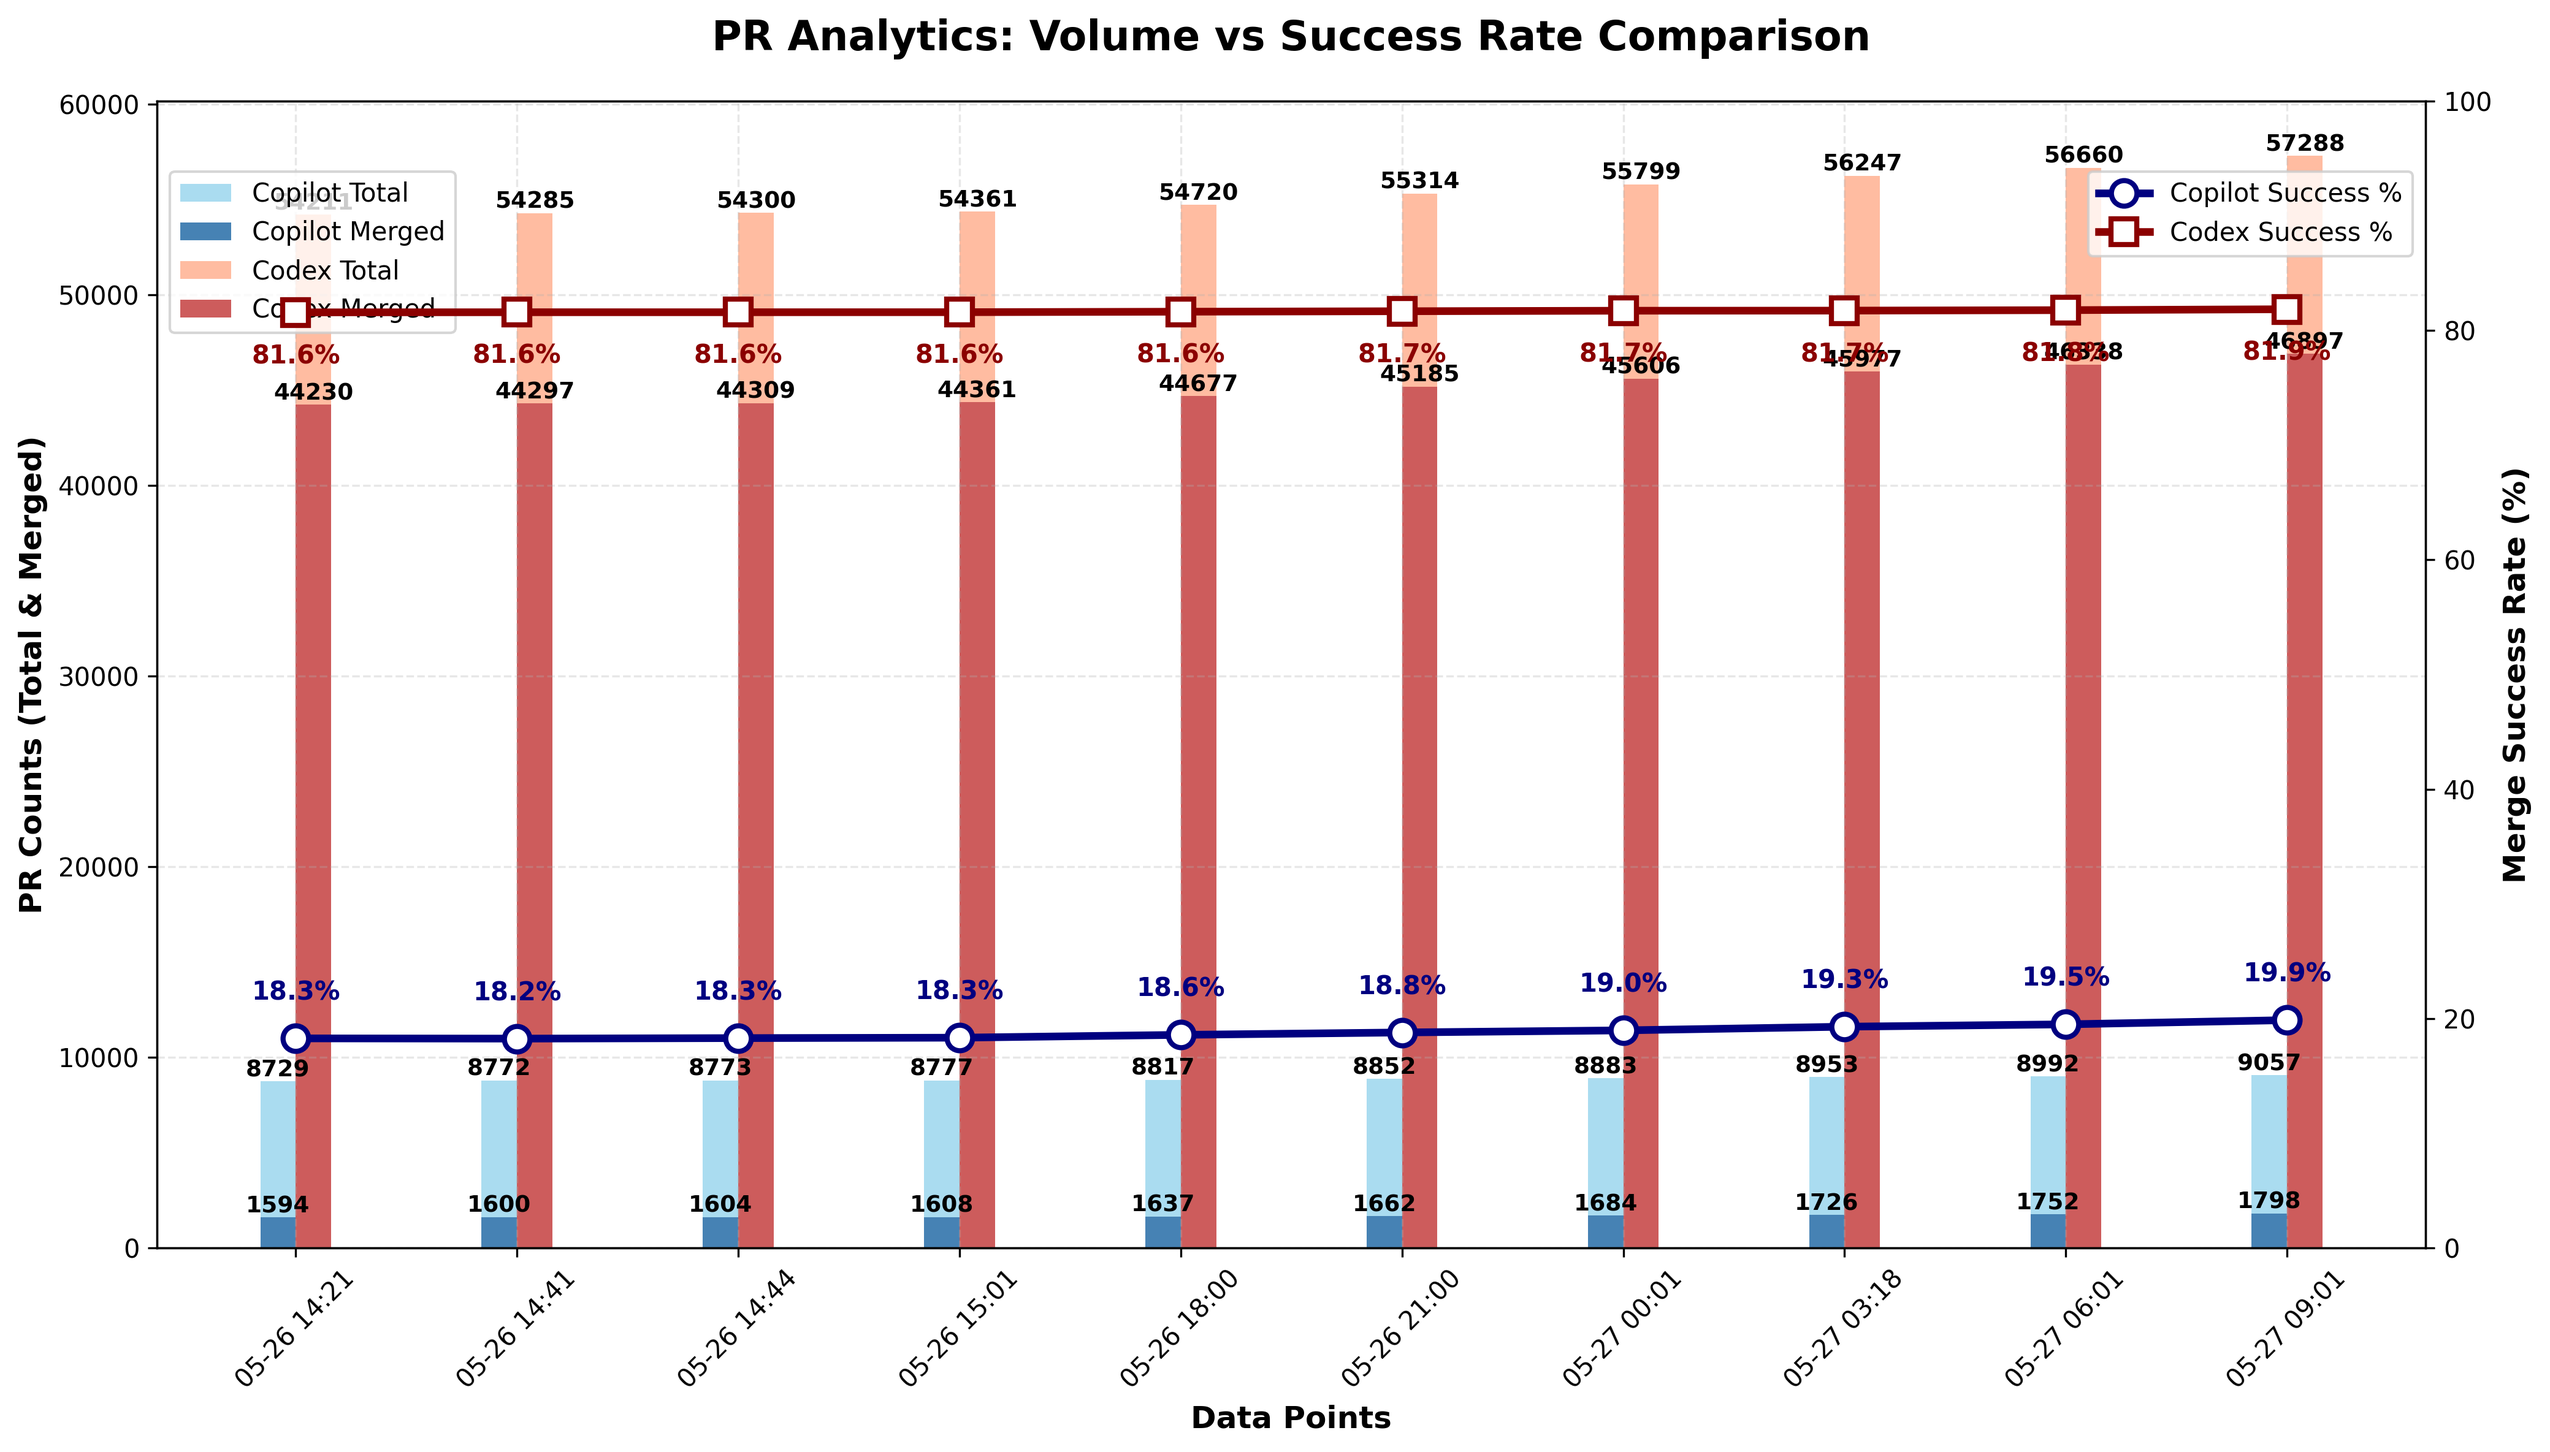
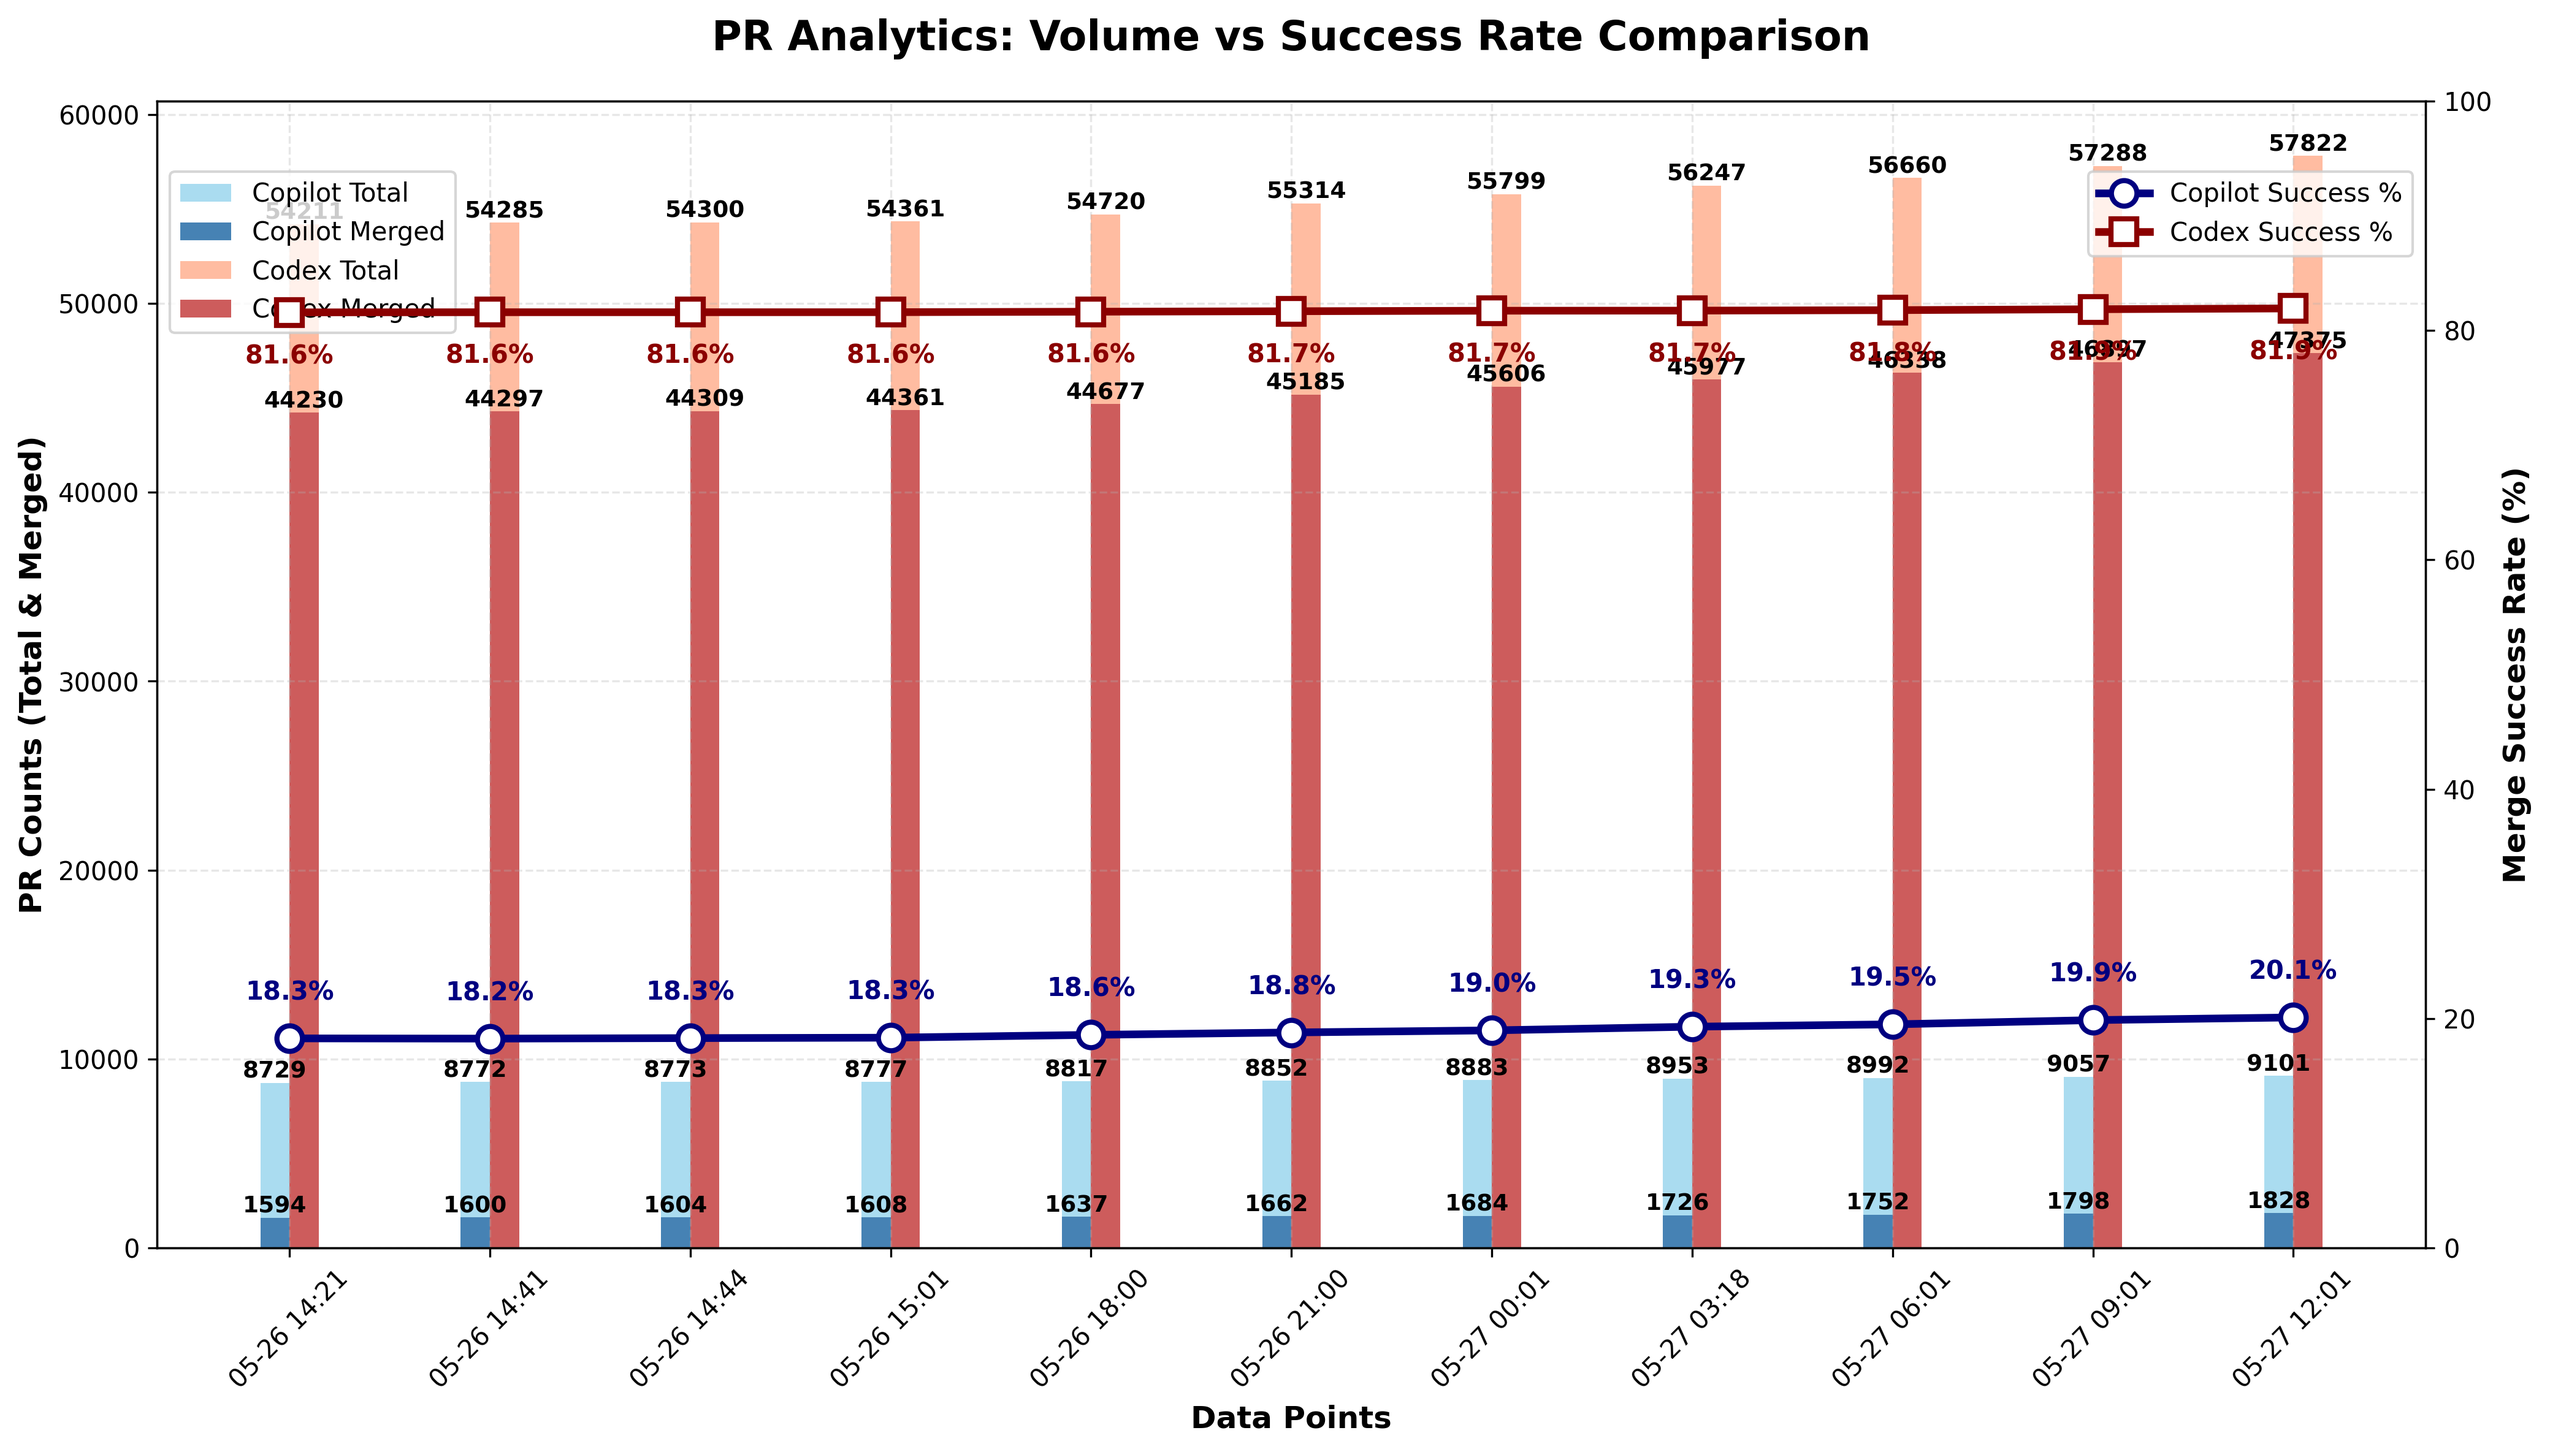
chore: update PR‑approval chart

diff --git a/README.md b/README.md
@@ -17,5 +17,5 @@ Explore the GitHub search queries used:
 
 | Project | Total PRs | Merged PRs | Merge Rate |
 | ------- | --------- | ---------- | ---------- |
-| Copilot | 9,057 | 1,798 | 19.85% |
-| Codex   | 57,288 | 46,897 | 81.86% |
+| Copilot | 9,101 | 1,828 | 20.09% |
+| Codex   | 57,822 | 47,375 | 81.93% |
